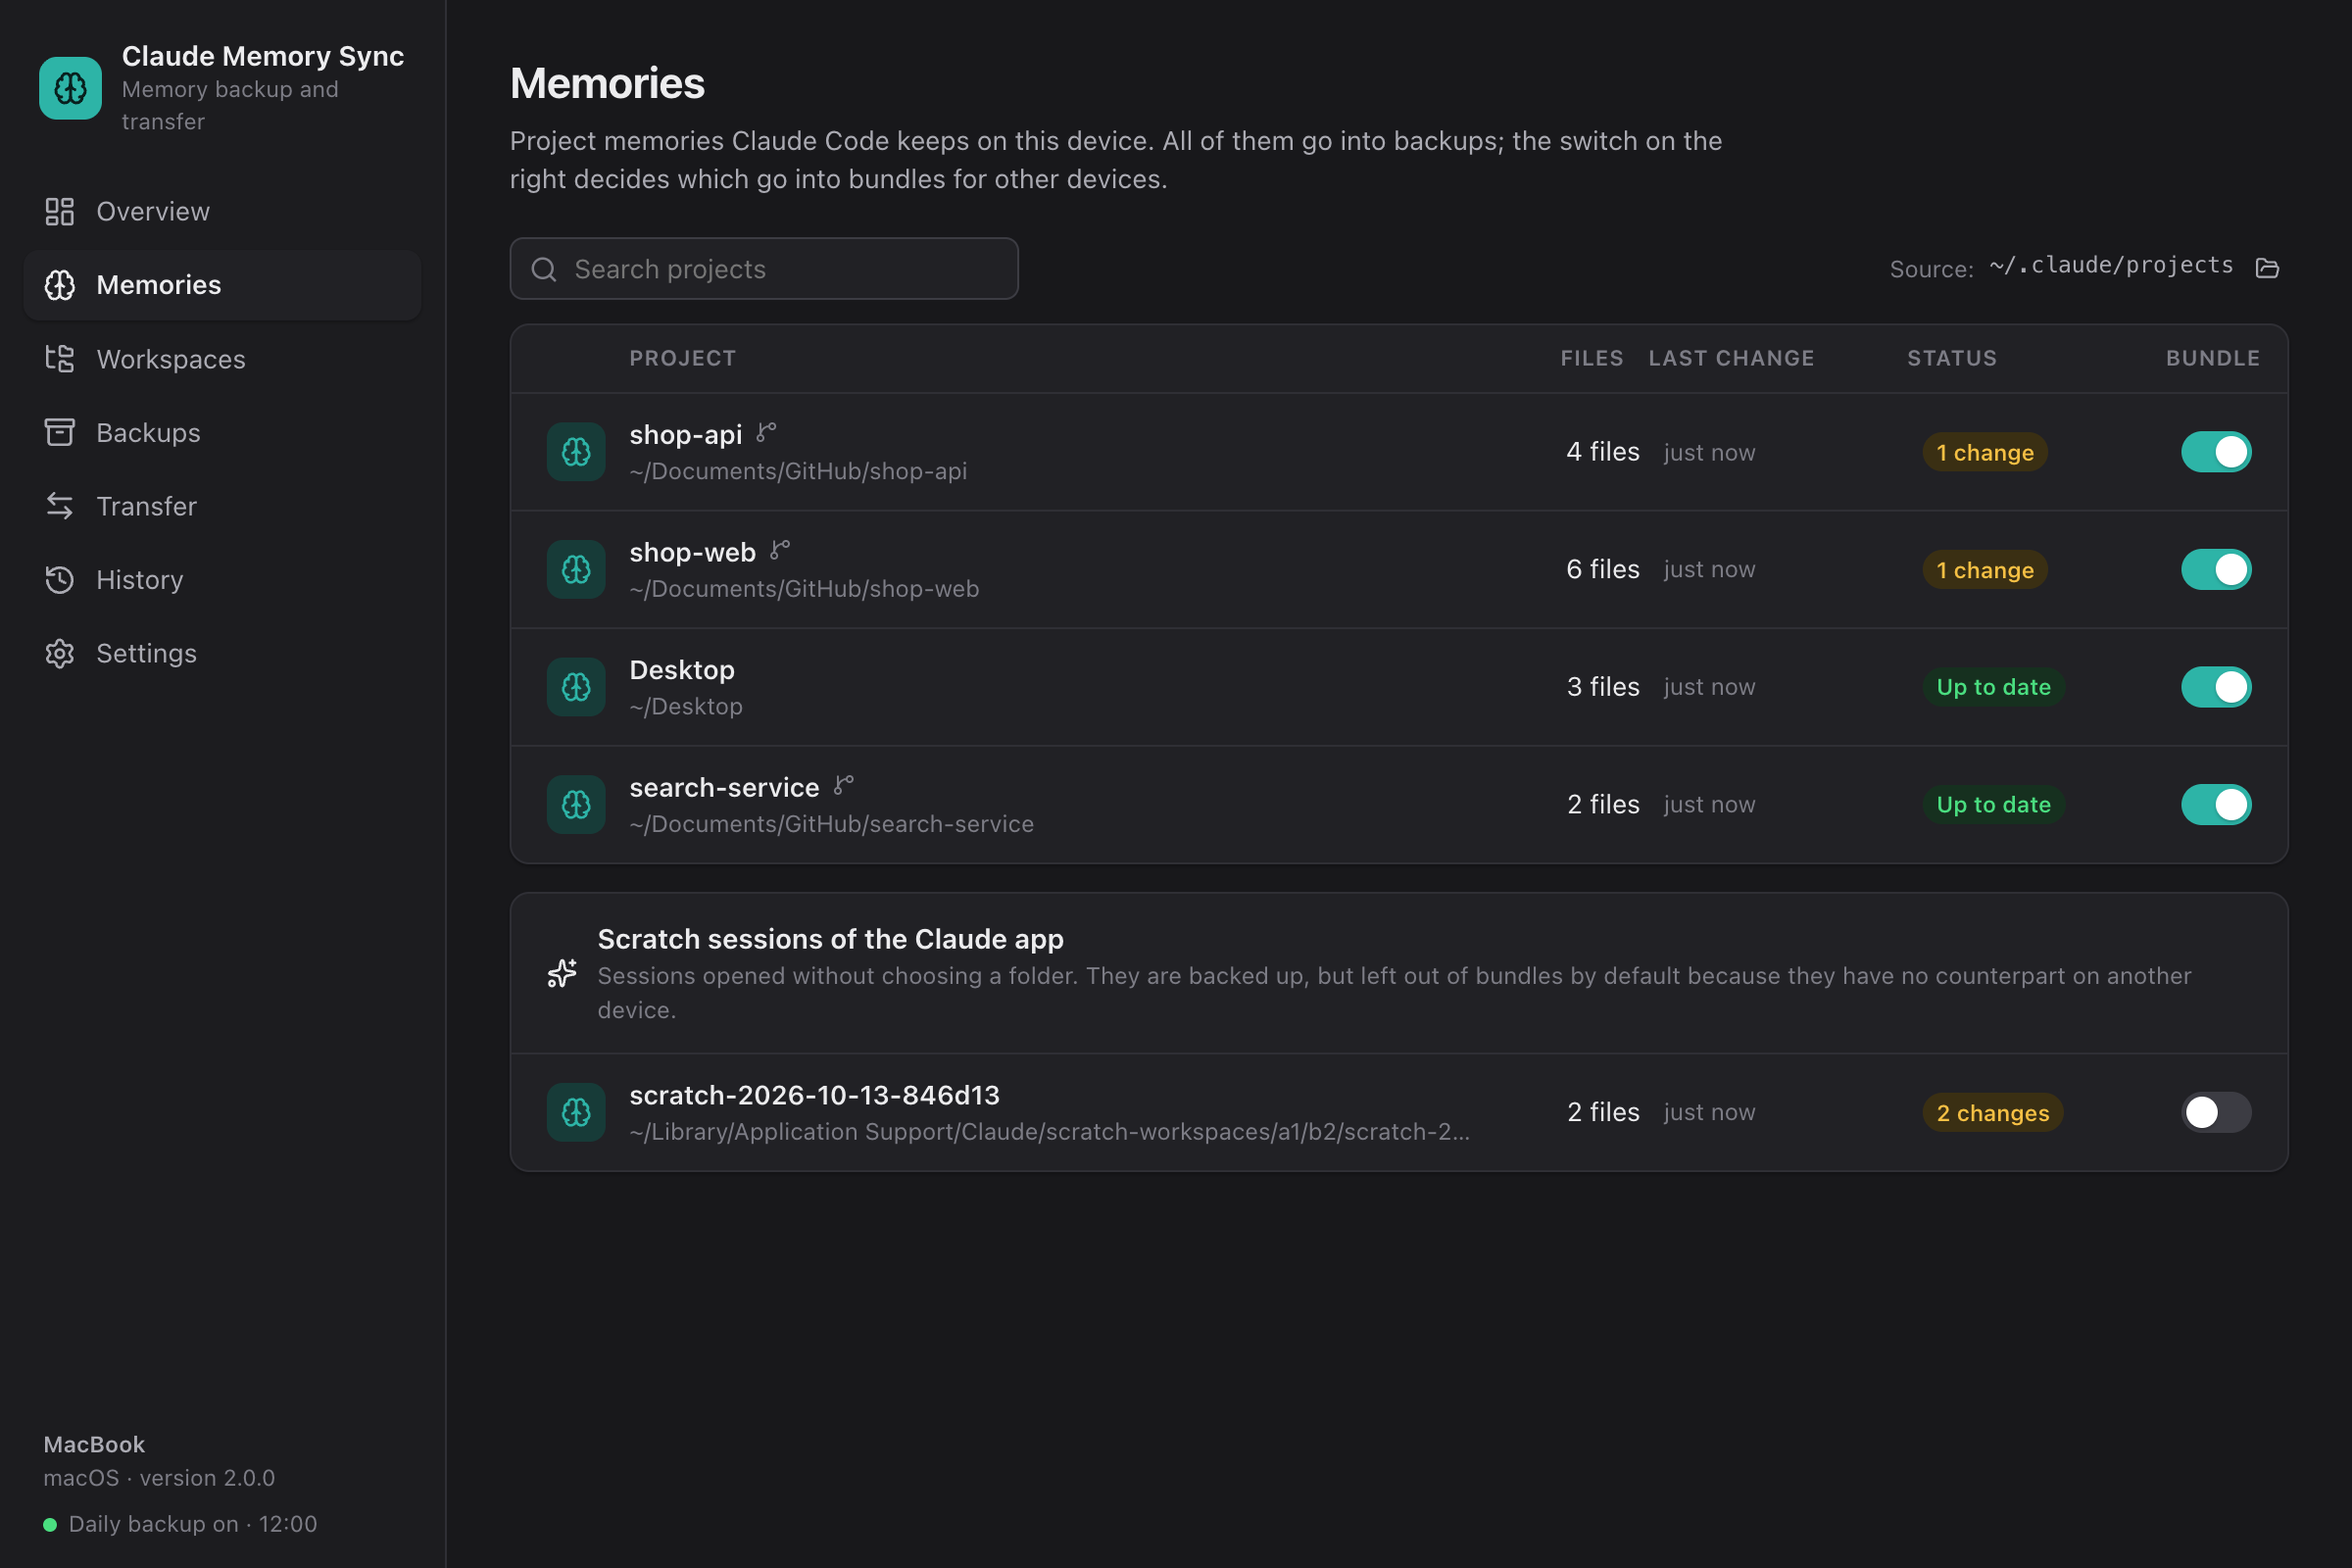
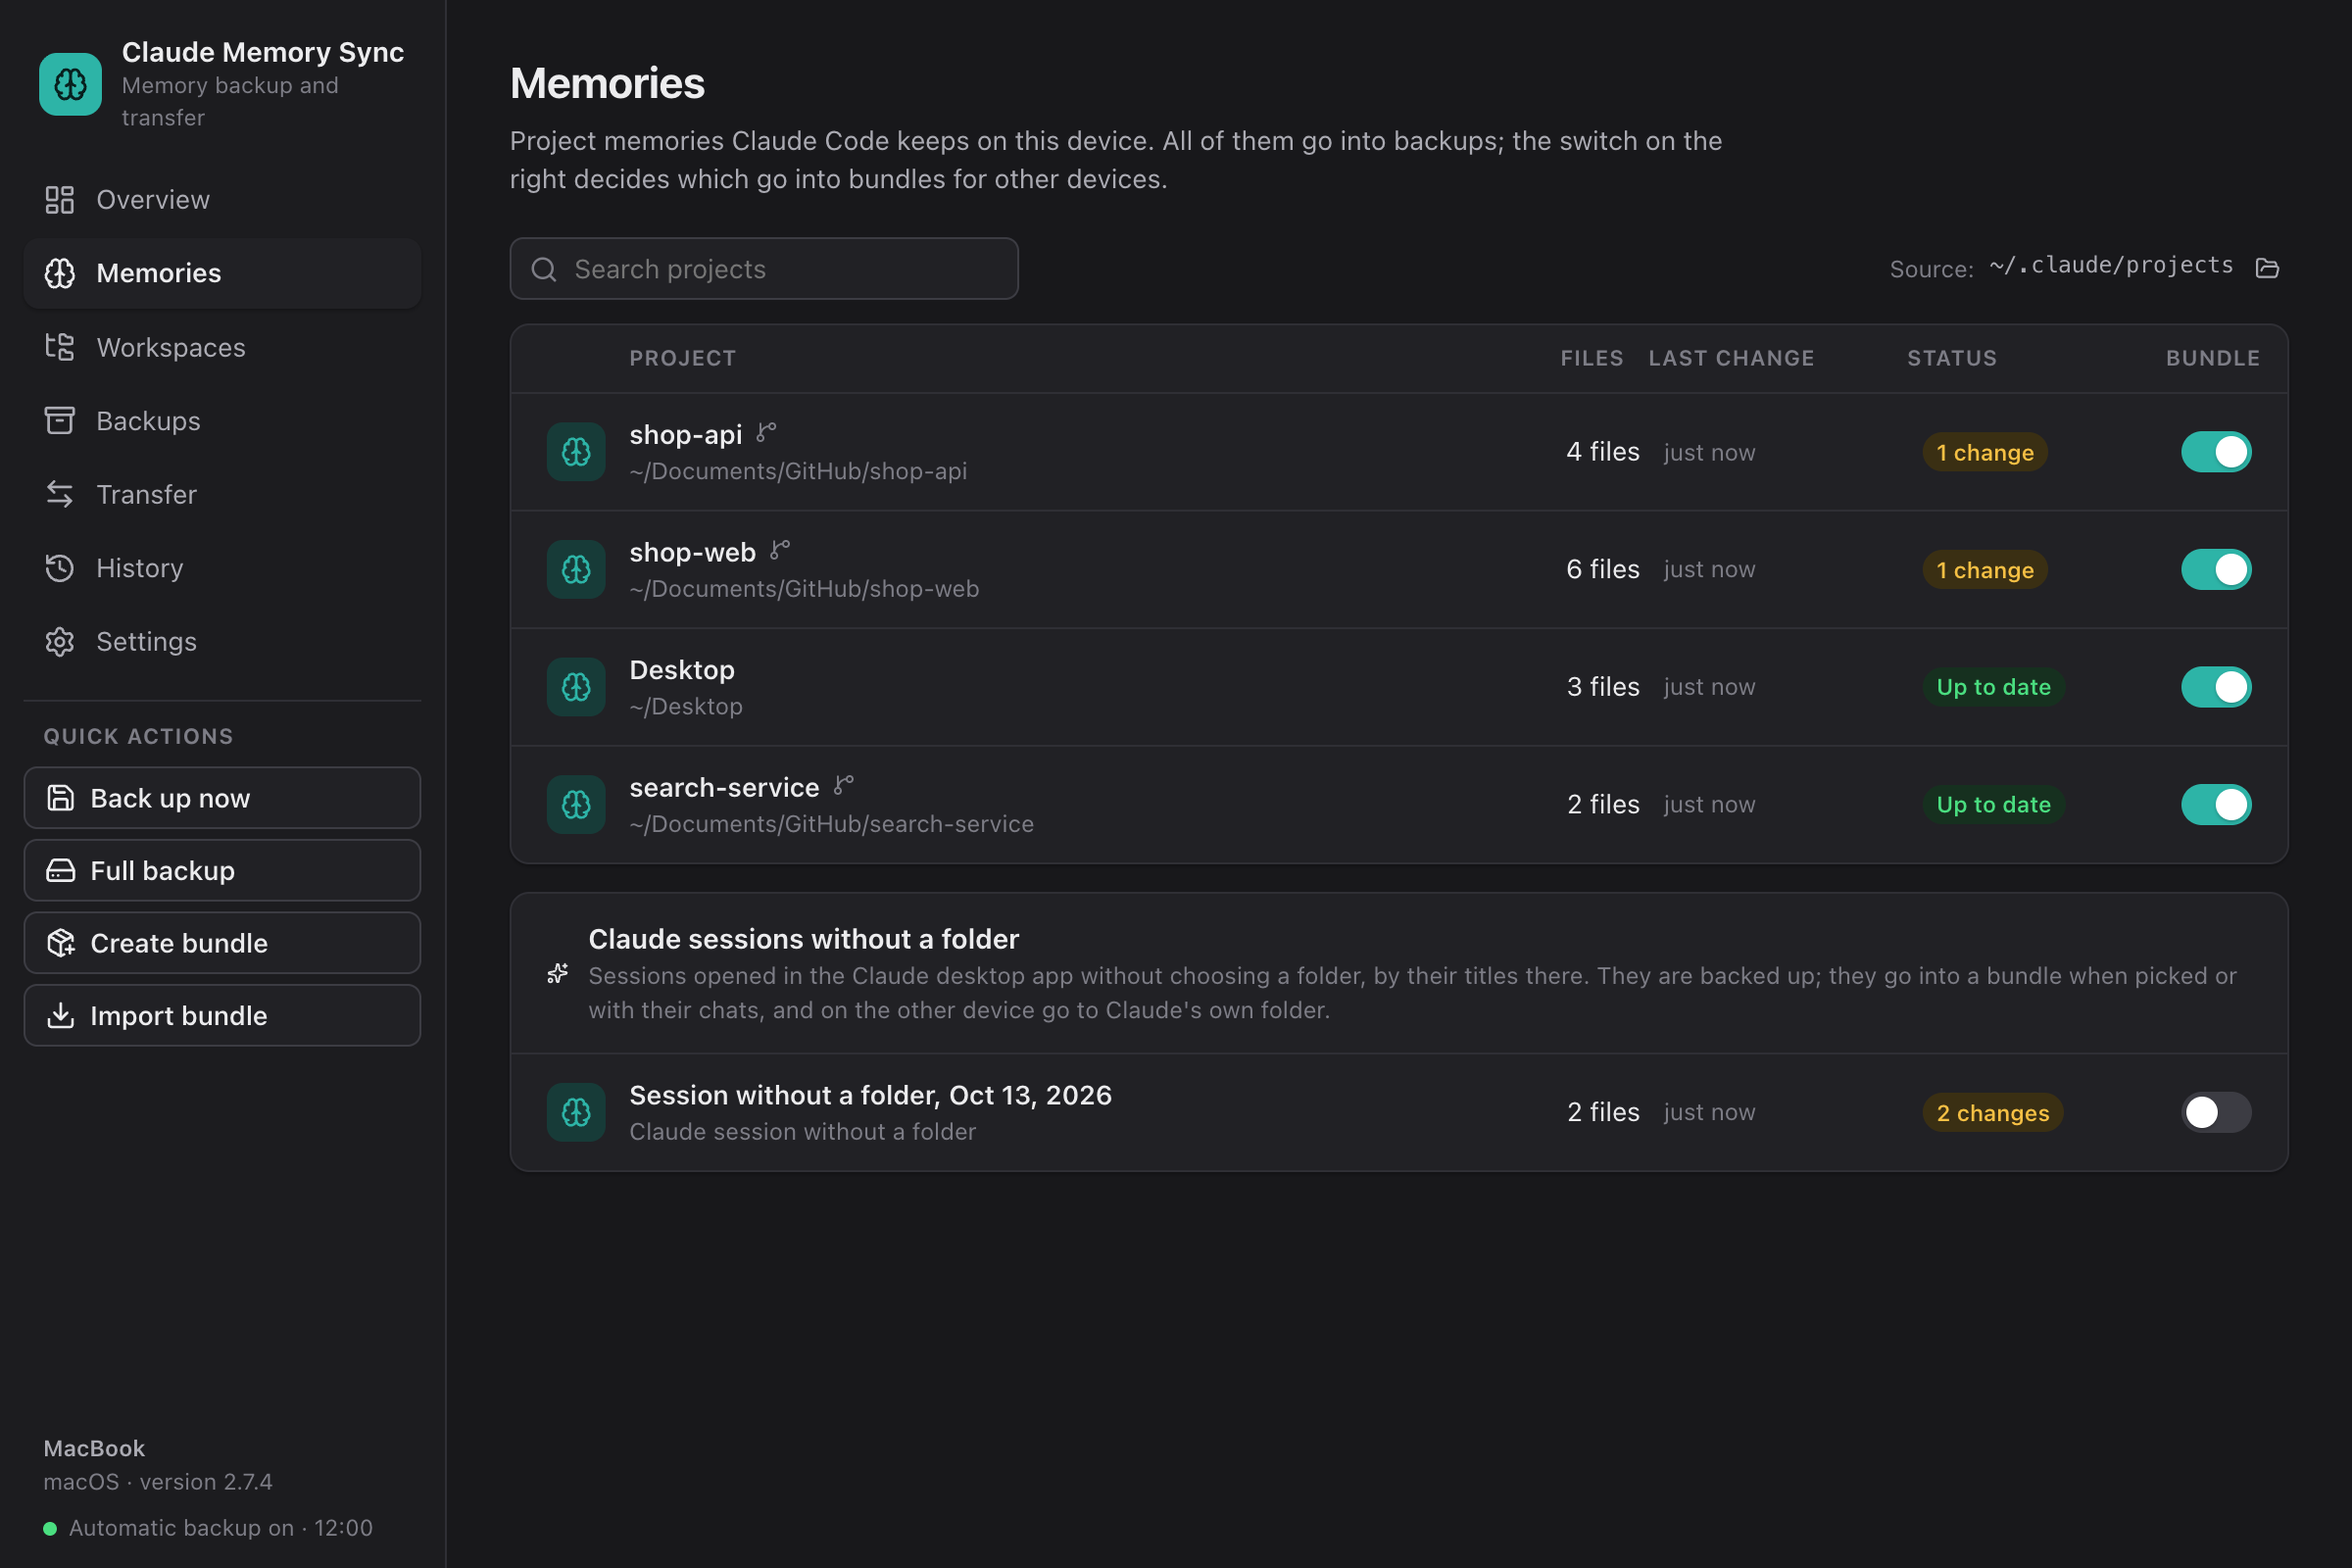
Bring the README and its screenshots up to date with the app.
The screenshots were from 2.0.0. They are rendered again from the sample devices, which now have chats and a group of
the Claude desktop app, and two are new: a bundle with a group and a project's chats, and the full backup with its
size and the free space on the disk. The full backup is shown before any notice is on the screen.

The README now covers what came since: chats in full backups, backups and bundles in a process of their own with
progress and Cancel, the free space check, a full backup from another system imported as a bundle, a reset under
another user name, the desktop app's records where it was used only through Remote Control, OneDrive, and folder
names with Turkish letters.

diff --git a/README.md b/README.md
@@ -4,7 +4,8 @@
 
 # Claude Memory Sync
 
-Back up, move and two-way sync Claude Code memories, VS Code workspaces and Claude settings between macOS and Windows.
+Back up, move and two-way sync Claude Code memories and chats, VS Code workspaces and Claude settings between macOS and
+Windows.
 
 ![macOS](https://img.shields.io/badge/macOS-Apple%20Silicon%20%7C%20Intel-1f2328?logo=apple&logoColor=white)
 ![Windows](https://img.shields.io/badge/Windows-x64-0078D4?logo=windows&logoColor=white)
@@ -47,11 +48,14 @@ change before writing it, and backs up the device before every write.
 - **Daily backups** from the menu bar (macOS) or the system tray (Windows), off until you turn them on, with contents
   you choose: projects, workspace files and Claude settings one by one, and optionally chats (all of them, those of
   chosen projects or Claude desktop groups, or single chats).
-- **Full backup before a reset.** Memories plus the app's own settings, version history, activity log and every
-  earlier backup in one file; restoring it brings everything back where it was.
+- **Full backup before a reset.** Memories, chats, workspace files and Claude settings, plus the app's own settings,
+  version history, activity log and every earlier backup, in one file whose size is shown before it is written.
+  Restoring it brings everything back where it was, also under a different user name.
+- **The window stays responsive.** Backups and bundles are written by a separate process, with a progress bar and a
+  **Cancel** button that stops only that job. The free space on the disk is checked before anything is written.
 - **Command line** built on the same core as the app.
-- **English, Turkish, German, Spanish and French,** light and dark. The app follows the system language and appearance;
-  both can be changed in Settings.
+- **English, Turkish, German, Spanish and French,** light and dark, error messages included. The app follows the system
+  language and appearance; both can be changed in Settings.
 
 ## Screenshots
 
@@ -68,6 +72,13 @@ in or excluded from bundles here.
 (absolute paths, backslashes) are flagged and can be fixed in one click.
 
 ![Workspaces](docs/screenshots/workspaces.png)
+
+### Create bundle
+
+Every project is listed with its memory and its chats; a click on a project shows its chats. A group of the Claude
+desktop app's sidebar takes all of its chats and their projects' memory. A chat always goes with its project's memory.
+
+![Create bundle: a desktop group and a project's chats](docs/screenshots/create-bundle.png)
 
 ### Import
 
@@ -100,6 +111,13 @@ the device are preselected.
     <td>Every operation. Undoing an import restores only the files it changed, from the backup taken right before it.</td>
   </tr>
 </table>
+
+### Full backup
+
+**Full backup** in the sidebar shows what goes in, the expected size of the file and the free space on the disk before
+anything is written.
+
+![Full backup](docs/screenshots/full-backup.png)
 
 ## Install
 
@@ -157,9 +175,14 @@ device the chats are listed in the **Chats** tab of the import, and the desktop 
 there. Bundles with chats need version 2.4 or later on both devices.
 
 **Reset or reinstall.** Choose **Full backup** and keep the file off the computer. After the reset,
-install the app and double-click the file: memories, workspace files and Claude settings go back where they were, the
-app's settings, version history, matches, activity log and earlier backups come back, and the app continues where it
-left off. A full backup restores on the same operating system; to move to another one, use a bundle.
+install the app and double-click the file: memories, chats, workspace files and Claude settings go back where they
+were, the app's settings, version history, matches, activity log and earlier backups come back, and the app continues
+where it left off. A different user name on the new install is fine: paths move to the new home folder, and backups
+taken before the reset still restore there. On another operating system, a full backup is offered as a bundle to
+import: memories, chats, workspace files and Claude settings come over, the app's own data does not.
+
+**Cancel a backup.** While a backup, full backup or bundle is being written, the window shows its progress and cannot
+be used. **Cancel** stops only that job; earlier backups are not touched and no half-written file is left.
 
 **Turn automatic backups on or off.** A new install has them off and asks once on first start, with the time to use. The
 switch is on **Overview** and in **Settings → Automatic backup**, and **Automatic backup** in the menu bar or tray menu
@@ -210,6 +233,11 @@ path relative to the home folder (`Documents/GitHub/x`), an existing folder that
 project that matches only by name is suggested but not preselected. The workspace folder is the one that holds the
 repositories the incoming workspaces open. Confirmed matches are remembered.
 
+A Desktop, Documents or Pictures folder that Windows keeps in OneDrive counts as the same place as the other device's.
+Folder names with letters such as ş or ü match whichever form each disk stores them in (macOS can keep them
+decomposed), and a new Claude project folder gets the name Claude Code gives it: the path in NFC form, cut at 200
+characters with a hash.
+
 ### Versioning
 
 Each device records the hash of every version it has seen of every file and includes these hashes in bundles. This is
@@ -230,9 +258,11 @@ how a file deleted on the other device is told apart from a file added on this o
 ### Chats
 
 A chat goes to its project's Claude folder on the receiving device; its prompt history and the desktop app's record are
-pointed at the project folder there. The desktop app's record is written only when the app on that device uses the same
-account. A session of the desktop app that had no folder goes to the same scratch folder of the app there, which is
-made for it.
+pointed at the project folder there. The desktop app's record is written when the app is installed on that device, also
+when it has not run a Code session there yet (for example, when it was used only through Remote Control), and the app
+lists the chat when it is signed in to the same account. A chat that came over earlier without its record gets it when
+the bundle is opened again. A session of the desktop app that had no folder goes to the same scratch folder of the app
+there, which is made for it.
 
 A session in a group of the desktop app's sidebar goes into the group of the same name there; a group that is not there
 yet is added. The groups are kept in the app's settings file (`claude_desktop_config.json`), which the app writes over
@@ -262,6 +292,8 @@ it brought in.
   is rebuilt.
 - Each file is written to a temporary file and moved into place. If a write fails, everything written so far is rolled
   back.
+- Nothing is written unless it fits with room to spare: 2 GB stay free on the disk the computer runs from, 100 MB on
+  another disk. A backup or bundle that is cancelled or fails leaves no file behind.
 - Every written file is read back and checked. Version history is updated only after that.
 - Bundle contents are verified against their hashes; a damaged bundle is rejected.
 - A backup moved to another disk is copied, written out and compared with the original before the original is removed.
@@ -306,10 +338,11 @@ npm run dist:win     # Windows installer into release/
 ```
 
 `release/` holds only installers; intermediate build output stays in `dist/electron`. The screenshots on this page are
-rendered from two sample devices, without real data; the last argument is the interface language:
+rendered from two sample devices, without real data; the last argument is the interface language, and
+`CMS_SHOTS_HOME` (an empty or missing folder) keeps the paths in the pictures short:
 
 ```
-CMS_SCALE=2 node scripts/screenshots.mjs <folder> dark en
+CMS_SHOTS_HOME=/tmp/demo CMS_SCALE=2 node scripts/screenshots.mjs <folder> dark en
 ```
 
 | Path | Contents |
